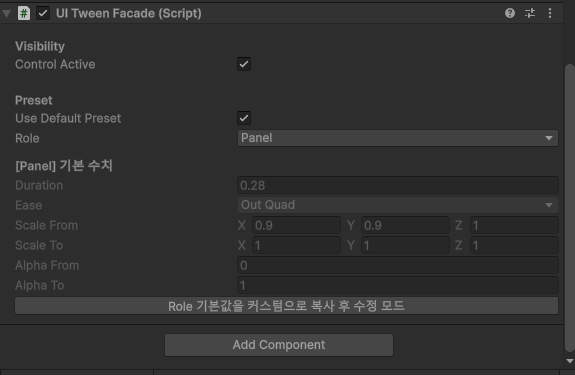
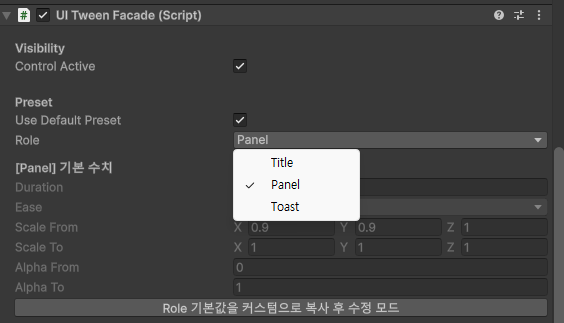
docs: README 문서 업데이트 및 이미지 추가
- README: DataManager, PoolManager 예제 var 제거
- UI 프리셋 설명: Title, Panel, Toast 3가지로 수정
- 코드 예제와 실제 구현 동기화
- 시스템 아키텍처 이미지 추가

Updates #readme-documentation

diff --git a/README.md b/README.md
@@ -251,14 +251,32 @@ flowchart TB
 // PoolManager.cs - 객체 획득 및 반환 인터페이스
 public GameObject Pop(GameObject prefab)
 {
-    var pool = GetPool(prefab);
-    return pool?.Pop();
+    Pool pool = GetPool(prefab);
+    if (pool == null)
+    {
+        Debug.LogError($"[PoolManager] Pool not found for prefab: {prefab.name}");
+        return null;
+    }
+    
+    GameObject result = pool.Pop();
+    if (result == null)
+    {
+        Debug.LogError($"[PoolManager] Failed to pop object from pool: {prefab.name}");
+    }
+    return result;
 }
 
 public void Push(GameObject prefab, GameObject instance)
 {
-    var pool = GetPool(prefab);
-    pool?.Push(instance);
+    Pool pool = GetPool(prefab);
+    if (pool == null)
+    {
+        Debug.LogError($"[PoolManager] Pool not found for prefab: {prefab.name}");
+        Destroy(instance);
+        return;
+    }
+    
+    pool.Push(instance);
 }
 
 // Poolable.cs - 객체 스스로 풀에 반환되는 구조
@@ -269,8 +287,15 @@ public class Poolable : MonoBehaviour
 
     public void ReturnToPool()
     {
-        if (_pool != null) _pool.Push(gameObject);
-        else Destroy(gameObject);
+        if (_pool != null)
+        {
+            _pool.Push(gameObject);
+        }
+        else
+        {
+            Debug.LogError($"[Poolable] Pool is null for object: {gameObject.name}");
+            Destroy(gameObject);
+        }
     }
 }
 ```
@@ -318,11 +343,11 @@ flowchart LR
 // DataManager.cs - 제네릭 데이터 조회
 public T Get<T>(string id) where T : BaseData
 {
-    var category = typeof(T).Name;
+    string category = typeof(T).Name;
     if (typeof(ItemData).IsAssignableFrom(typeof(T))) category = "ItemData";
     
-    var key = $"{category}/{id}";
-    return _cache.TryGetValue(key, out var cached) ? cached as T : null;
+    string key = $"{category}/{id}";
+    return _cache.TryGetValue(key, out BaseData cached) ? cached as T : null;
 }
 ```
 
@@ -558,6 +583,19 @@ DOTween 기반의 모듈형 UI 연출 시스템으로 일관되고 몰입감 있
 **주요 컴포넌트**
 - `UITweenFacade`: UI 연출을 필요로 하는 컴포넌트에 달아서 사용할 수 있는 인터페이스
 - `TweenPreset`: 연출 설정에 따른 프리셋을 미리 저장
+
+**구현된 프리셋 종류**
+- **TitlePreset**: 타이틀 등장 연출
+- **PanelPreset**: 패널 등장/퇴장 연출 (페이드인/아웃 + 스케일 효과)
+- **ToastPreset**: 토스트 메시지 연출 (짧은 알림 메시지 표시)
+
+**핵심 코드**
+```csharp
+// UITweenFacade를 통한 간단한 연출 실행
+UITweenFacade facade = GetComponent<UITweenFacade>();
+facade.PlayEnter();  // 등장 연출
+facade.PlayExit();   // 퇴장 연출
+```
 
 #### 3.7 사운드 및 이펙트 관리 시스템
 
